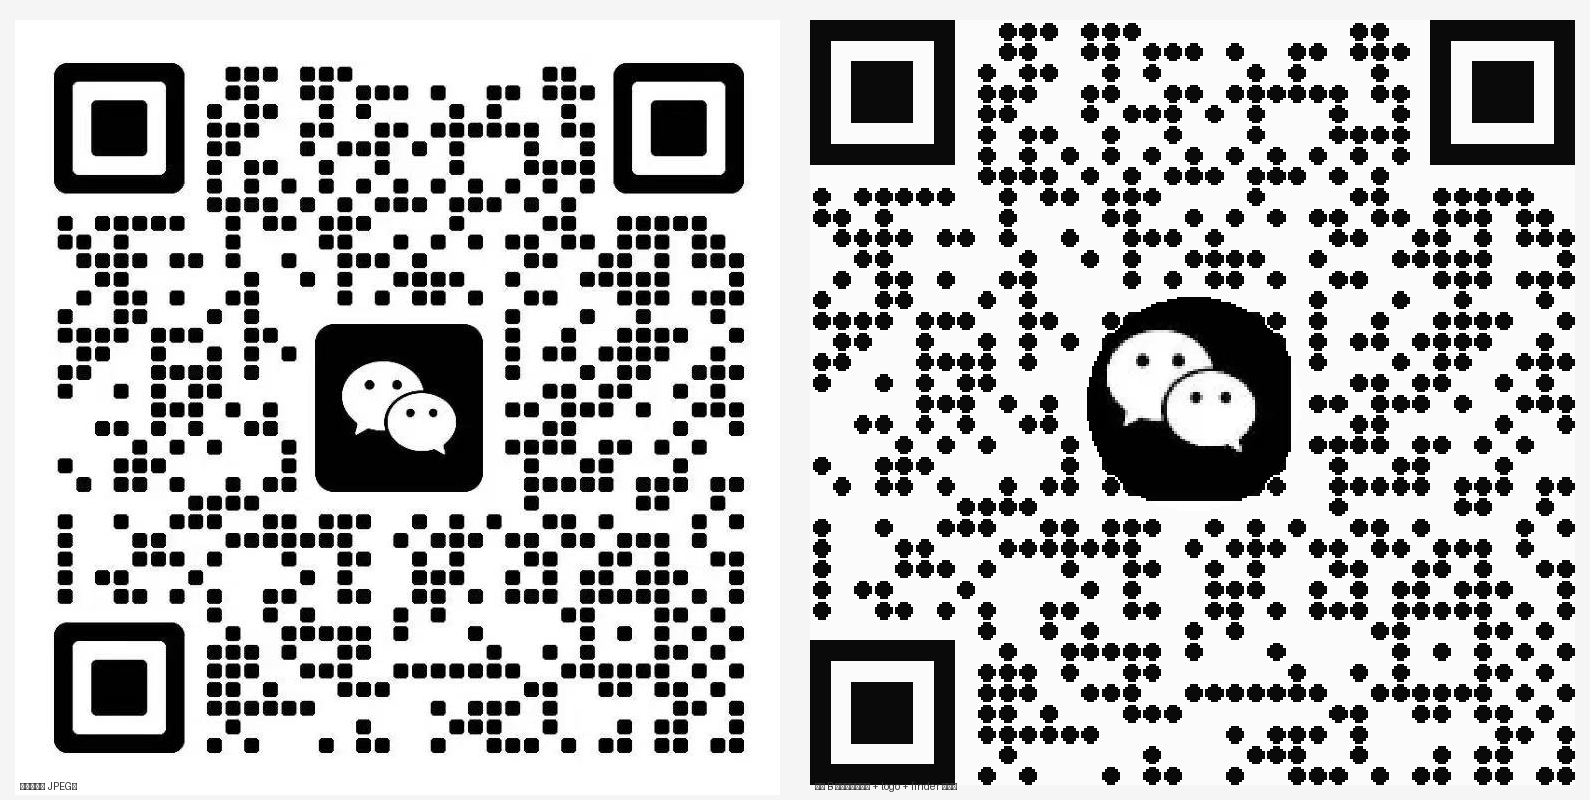
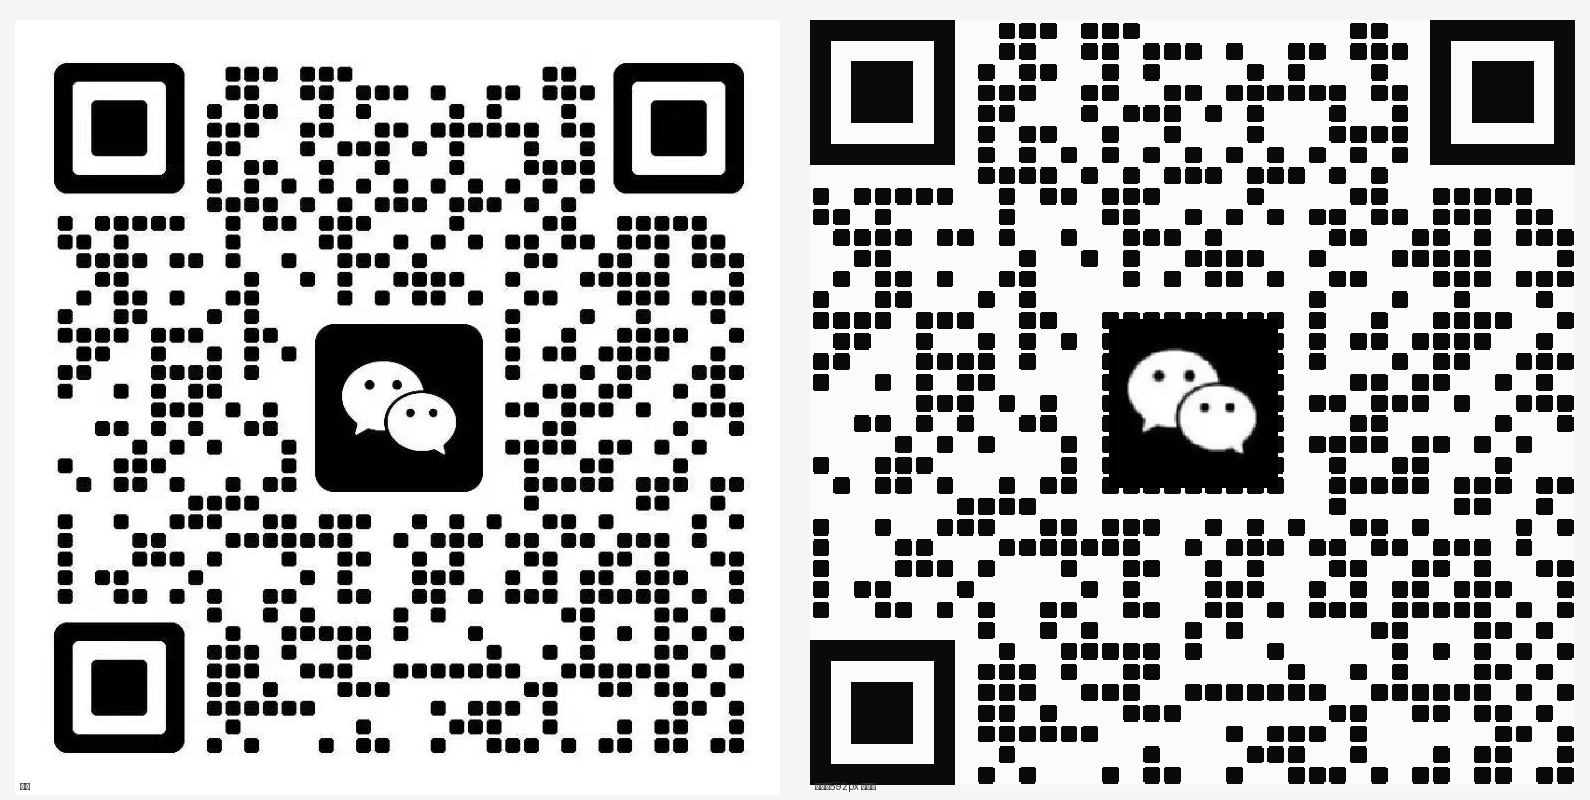
feat: 视觉还原迭代 — 方形logo贴片+边缘羽化+区域平均采样（缩小抗混叠）、中心修正、模块圆角0.15、finder实心/数据区间隙；真实微信码 B引擎扫码一致（51/51）

diff --git a/src/qr/redraw.js b/src/qr/redraw.js
@@ -10,22 +10,20 @@ function inRoundedRect(x, y, cx, cy, half, radius) {
   return ex * ex + ey * ey <= radius * radius;
 }
 
-/** 双线性采样原图像素 */
-function sampleBilinear(rgba, w, h, sx, sy) {
-  const x0 = Math.min(w - 1, Math.max(0, Math.floor(sx)));
-  const y0 = Math.min(h - 1, Math.max(0, Math.floor(sy)));
-  const x1 = Math.min(w - 1, x0 + 1);
-  const y1 = Math.min(h - 1, y0 + 1);
-  const fx = sx - x0, fy = sy - y0;
-  const out = [];
-  for (let ch = 0; ch < 3; ch++) {
-    const v00 = rgba[(y0 * w + x0) * 4 + ch];
-    const v10 = rgba[(y0 * w + x1) * 4 + ch];
-    const v01 = rgba[(y1 * w + x0) * 4 + ch];
-    const v11 = rgba[(y1 * w + x1) * 4 + ch];
-    out[ch] = Math.round(v00 * (1 - fx) * (1 - fy) + v10 * fx * (1 - fy) + v01 * (1 - fx) * fy + v11 * fx * fy);
+/** 区域平均采样（对缩小贴片抗混叠；输出像素覆盖原图 [sx0,sx1]×[sy0,sy1] 区域取平均） */
+function sampleArea(rgba, w, h, sx0, sy0, sx1, sy1) {
+  const x0 = Math.min(w - 1, Math.max(0, Math.floor(sx0)));
+  const y0 = Math.min(h - 1, Math.max(0, Math.floor(sy0)));
+  const x1 = Math.min(w - 1, Math.max(0, Math.ceil(sx1)));
+  const y1 = Math.min(h - 1, Math.max(0, Math.ceil(sy1)));
+  let sum = [0, 0, 0], n = 0;
+  for (let y = y0; y <= y1; y++) {
+    for (let x = x0; x <= x1; x++) {
+      const i = (y * w + x) * 4;
+      sum[0] += rgba[i]; sum[1] += rgba[i + 1]; sum[2] += rgba[i + 2]; n++;
+    }
   }
-  return out;
+  return n > 0 ? [Math.round(sum[0] / n), Math.round(sum[1] / n), Math.round(sum[2] / n)] : [255, 255, 255];
 }
 
 /**
@@ -43,10 +41,10 @@ export function redraw(matrix, n, style, modulePx = 8, original = null) {
   const half = (modulePx * moduleFill) / 2;
   const radius = modulePx * moduleRadius;
 
-  // logo 输出圆（中心）
-  const logoOutR = original ? px * 0.14 : 0;
+  // logo 区域：输出中心方形（不假设圆形；原图中心方形区域原样贴，保持 logo 形态与周边空白）
+  const logoHalf = original ? px * (original.logoRatio || 0.22) / 2 : 0;
   const logoCx = px / 2, logoCy = px / 2;
-  const inLogo = (x, y) => Math.hypot(x - logoCx, y - logoCy) <= logoOutR;
+  const inLogo = (x, y) => Math.abs(x - logoCx) <= logoHalf && Math.abs(y - logoCy) <= logoHalf;
 
   // 1) 画模块（logo 区域跳过；finder 区实心保证定位，数据区用间隙/圆角样式）
   const inFinder = (r, c) =>
@@ -74,19 +72,36 @@ export function redraw(matrix, n, style, modulePx = 8, original = null) {
     }
   }
 
-  // 2) 贴原图 logo（双线性平滑）
+  // 2) 贴原图 logo 区域（方形，双线性 + 边缘羽化避免"点状围边"硬切）
   if (original) {
-    const { rgba: orig, width: ow, height: oh, cx, cy, radius: srcR } = original;
-    for (let dy = -Math.floor(logoOutR); dy <= Math.floor(logoOutR); dy++) {
-      for (let dx = -Math.floor(logoOutR); dx <= Math.floor(logoOutR); dx++) {
-        if (Math.hypot(dx, dy) > logoOutR) continue;
-        const sx = cx + (dx / logoOutR) * srcR;
-        const sy = cy + (dy / logoOutR) * srcR;
-        const [r, g, b] = sampleBilinear(orig, ow, oh, sx, sy);
+    const { rgba: orig, width: ow, height: oh, cx, cy, srcHalf } = original;
+    const fade = Math.max(2, Math.round(px * 0.012)); // 羽化宽度（输出 ~3px）
+    for (let dy = -Math.floor(logoHalf); dy <= Math.floor(logoHalf); dy++) {
+      for (let dx = -Math.floor(logoHalf); dx <= Math.floor(logoHalf); dx++) {
+        // 边缘羽化 alpha：距边界 fade 内从 255 → 0
+        const dEdge = Math.max(
+          Math.abs(dx) - (logoHalf - fade),
+          Math.abs(dy) - (logoHalf - fade),
+        );
+        let alpha = 255;
+        if (dEdge > 0) alpha = Math.max(0, Math.round(255 * (1 - dEdge / fade)));
+        // 原图源步长（输出 1px = 原图 srcStep px；缩小 >1 时区域平均抗混叠）
+        const srcStep = srcHalf / logoHalf;
+        const sx = cx + (dx / logoHalf) * srcHalf;
+        const sy = cy + (dy / logoHalf) * srcHalf;
+        const [r, g, b] = sampleArea(orig, ow, oh, sx, sy, sx + srcStep, sy + srcStep);
         const oy = Math.floor(logoCy) + dy;
         const ox = Math.floor(logoCx) + dx;
         const di = (oy * px + ox) * 4;
-        rgba[di] = r; rgba[di + 1] = g; rgba[di + 2] = b; rgba[di + 3] = 255;
+        if (alpha >= 255) {
+          rgba[di] = r; rgba[di + 1] = g; rgba[di + 2] = b; rgba[di + 3] = 255;
+        } else if (alpha > 0) {
+          // 与已画内容混合（羽化过渡）
+          const t = alpha / 255;
+          rgba[di] = Math.round(r * t + rgba[di] * (1 - t));
+          rgba[di + 1] = Math.round(g * t + rgba[di + 1] * (1 - t));
+          rgba[di + 2] = Math.round(b * t + rgba[di + 2] * (1 - t));
+        }
       }
     }
   }

diff --git a/test/redraw.test.js b/test/redraw.test.js
@@ -73,7 +73,7 @@ test("TC-R3: 重绘保留中心 logo", () => {
   // logo 定位：码中心 + 半径
   const [lcx, lcy] = grid.toPixel(grid.n / 2, grid.n / 2);
   const lr = width * 0.12;
-  const out = redraw(sampled, grid.n, style, 8, { rgba, width, height, cx: lcx, cy: lcy, radius: lr });
+  const out = redraw(sampled, grid.n, style, 8, { rgba, width, height, cx: lcx, cy: lcy, srcHalf: lr, logoRatio: 0.22 });
   // 输出中心像素应接近 logo 红（220,30,30），而非纯 fg/bg
   const oi = (Math.floor(out.height / 2) * out.width + Math.floor(out.width / 2)) * 4;
   assert.ok(out.rgba[oi] > 150 && out.rgba[oi + 1] < 100, `中心应含红色 logo，实际 [${out.rgba[oi]},${out.rgba[oi + 1]},${out.rgba[oi + 2]}]`);
@@ -139,7 +139,7 @@ test("TC-R5: logo 区域原样（非模块压底）", () => {
   const style = detectStyle(rgba, width, height);
   const [lcx, lcy] = grid.toPixel(grid.n / 2, grid.n / 2);
   const lr = width * 0.12;
-  const out = redraw(sampled, grid.n, style, 8, { rgba, width, height, cx: lcx, cy: lcy, radius: lr });
+  const out = redraw(sampled, grid.n, style, 8, { rgba, width, height, cx: lcx, cy: lcy, srcHalf: lr, logoRatio: 0.22 });
   // logo 圆心像素 = 原图圆心像素（原样，而非模块色）
   const oi = (Math.floor(out.height / 2) * out.width + Math.floor(out.width / 2)) * 4;
   assert.ok(out.rgba[oi] > 150 && out.rgba[oi + 1] < 100, `logo 中心应=原图 logo 红，实际 [${out.rgba[oi]},${out.rgba[oi + 1]},${out.rgba[oi + 2]}]`);

diff --git a/src/qr/enhance2.js b/src/qr/enhance2.js
@@ -25,9 +25,11 @@ export function enhance2(rgba, width, height, modulePx = 8) {
     style.moduleRadius = modStyle.moduleRadius;
     style.moduleFill = modStyle.moduleFill;
     // logo 定位：码中心 + 半径（码尺寸 ~12%）
-    const [lcx, lcy] = grid.toPixel(grid.n / 2, grid.n / 2);
-    const radius = grid.modulePx * grid.n * 0.12;
-    const original = { rgba, width, height, cx: lcx, cy: lcy, radius };
+    const [lcx, lcy] = grid.toPixel((grid.n - 1) / 2, (grid.n - 1) / 2);
+    // logo 方形区域：原图码中心，半边长 = 码宽 * logoRatio/2
+    const logoRatio = 0.22;
+    const srcHalf = grid.modulePx * grid.n * (logoRatio / 2);
+    const original = { rgba, width, height, cx: lcx, cy: lcy, srcHalf, logoRatio };
     const out = redraw(matrix, grid.n, style, modulePx, original);
 
     // 自检：输出可解码且与原图解码一致

diff --git a/src/detect/grid.js b/src/detect/grid.js
@@ -109,5 +109,6 @@ export function detectModuleStyle(gray, width, height, grid, threshold = 128) {
   const fgW = sorted[Math.floor(sorted.length / 2)];
   const moduleFill = Math.max(0.5, Math.min(1, fgW / modulePx));
   const hasGap = moduleFill < 0.97;
-  return { moduleRadius: hasGap ? 0.3 : 0, moduleFill: hasGap ? moduleFill : 1 };
+  return { moduleRadius: hasGap ? 0.15 : 0, moduleFill: hasGap ? moduleFill : 1 };
 }
+
